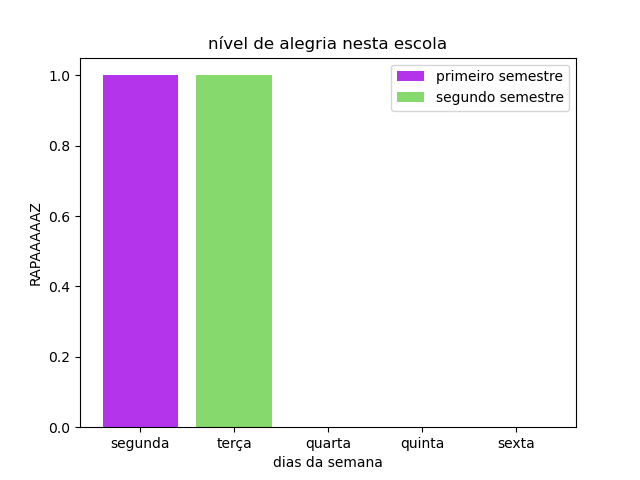
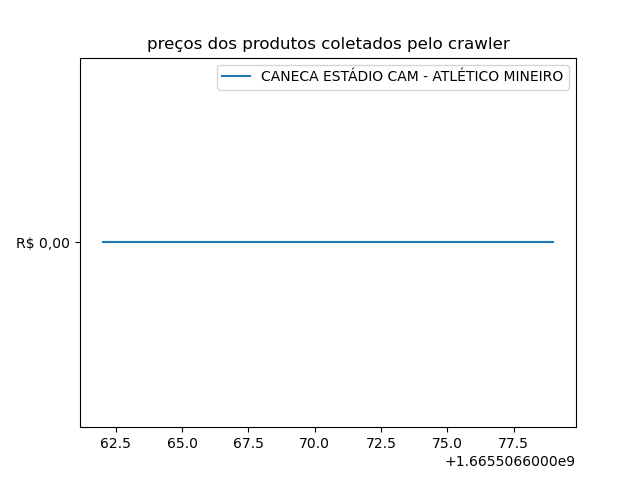
added code for generating graph

diff --git a/gera_gráfico.py b/gera_gráfico.py
@@ -4,45 +4,61 @@
 from matplotlib import pyplot as plt
 import numpy as np
 import sqlite3
+from datetime import datetime as dt
 
 
 def acessa_banco():
-    con = sqlite3.connect('banco.db')
-    cur = con.cursor()
 
-    dados1 = cur.execute('''
-        select x, y
-        from exemplo 
-        where semestre='primeiro semestre'
-    ''').fetchall()
-    dados2 = cur.execute('''
-        select x, y
-        from exemplo 
-        where semestre='segundo semestre'
-    ''').fetchall()
+    with sqlite3.connect('banco.db') as con:
+        cur = con.cursor()
 
-    # zip(*dados1) transforma uma lista de tuplas em duas tuplas:
-    # dados1 = [(0, 1), (0, 0), (0, 0), (0, 0), (0, 0)]
-    # zip(*dados1) vira x = (0, 0, 0, 0, 0) e y1 = (1, 0, 0, 0, 0)
-    x, y1 = zip(*dados1)
-    x, y2 = zip(*dados2)
+        # TODO espero que vocês tenham prestado atenção nas aulas de banco de dados
+        # TODO recomendo abrir o banco de dados pela linha de comando para rodar esses comandos:
+        # TODO sqlite3 banco.db
+        # TODO CTRL + D fecha o programa
+        dados1 = cur.execute('''
+            select A.id_produto, A.nome, B.preco, B.date_annotation
+            from produtos as A
+            inner join anotacoes_para_produtos as C on A.id_produto = C.id_produto
+            inner join anotacoes as B on C.id_anotacao = B.id_anotacao
+        ''').fetchall()  # type: list
 
-    return list(x), list(y1), list(y2)
+        processados = dict()
+
+        # linha é uma tupla de 4 posições nessa ordem: id_produto, nome, preco, date_annotation
+        # pois essas foram as colunas selecionadas na cláusula select
+        for linha in dados1:
+            # o formato deve ser o mesmo que foi usado para armazenar a string
+            data = dt.strptime(linha[3], '%Y-%m-%d-%H-%M-%S')
+
+            if linha[1] in processados:
+                # adiciona à lista
+                processados[linha[1]] += [{'preço': linha[2], 'data': data}]
+            else:
+                # cria lista
+                processados[linha[1]] = [{'preço': linha[2], 'data': data}]
+
+    return processados
 
 
-def desenha(x, y1, y2):
+def desenha(produtos):
     fig, ax = plt.subplots()
 
-    ax.bar(x, y1, label='primeiro semestre', color='#b434eb')
-    ax.bar(x, y2, label='segundo semestre', color='#86d96c')
+    # existem diversas maneiras de processar os dados. eu optei por fazer assim
+    # não é necessariamente a mais fácil!
+    for nome, dados in produtos.items():
+        datas = []
+        precos = []
+        for linha in dados:
+            datas += [linha['data']]
+            precos += [linha['preço']]
 
-    ax.set_xticks(x)
-    ax.set_xticklabels(['segunda', 'terça', 'quarta', 'quinta', 'sexta'])
+        processados = list(sorted(zip(datas, precos), key=lambda x: x[0]))
+        datas, precos = zip(*processados)
+        datas = [x.timestamp() for x in datas]
+        ax.plot(datas, precos, label=nome)
 
-    ax.set_xlabel('dias da semana')
-    ax.set_ylabel('RAPAAAAAZ')
-
-    ax.set_title('nível de alegria nesta escola')
+    ax.set_title('preços dos produtos coletados pelo crawler')
 
     plt.legend(loc='upper right')
 
@@ -51,8 +67,8 @@ def desenha(x, y1, y2):
 
 
 def main():
-    x, y1, y2 = acessa_banco()
-    desenha(x, y1, y2)
+    produtos = acessa_banco()
+    desenha(produtos)
 
 
 if __name__ == '__main__':
